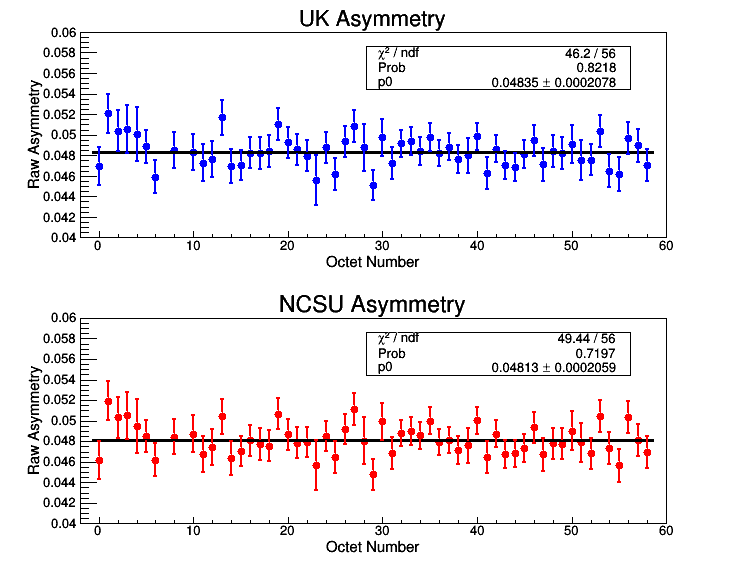
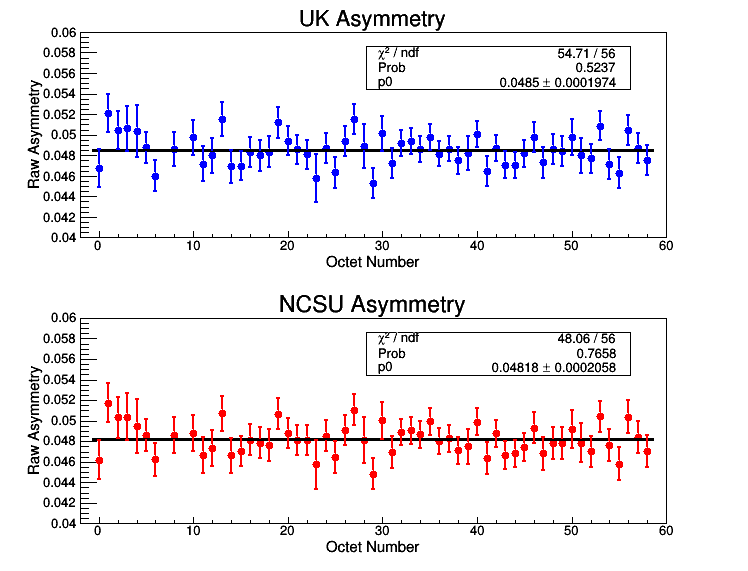
plotting comparisons between UK and NCSU asymmetries

diff --git a/Asymmetry/asymPlotter.C b/Asymmetry/asymPlotter.C
@@ -39,7 +39,7 @@
 
   infile.close();
 
-  infile.open("octvalUK.dat");
+  infile.open("octvalUK_10212016.dat");
 
   infile >> hold[0] >> hold[1] >> hold[2] >> hold[3];
     
@@ -162,7 +162,8 @@
   
   for ( UInt_t i=0; i<oct_UK.size(); i++ ) {
 
-    err_res[i] = err_UK[i] / err_NCSU[i];
+    //err_res[i] = ( err_UK[i]/asym_UK[i] ) / ( err_NCSU[i]/asym_NCSU[i] );
+    err_res[i] = ( err_UK[i] ) / ( err_NCSU[i] );
     err_resErr[i] = 0.;//TMath::Sqrt(err_UK[i]*err_UK[i] + err_NCSU[i]*err_NCSU[i]);
 
   }
